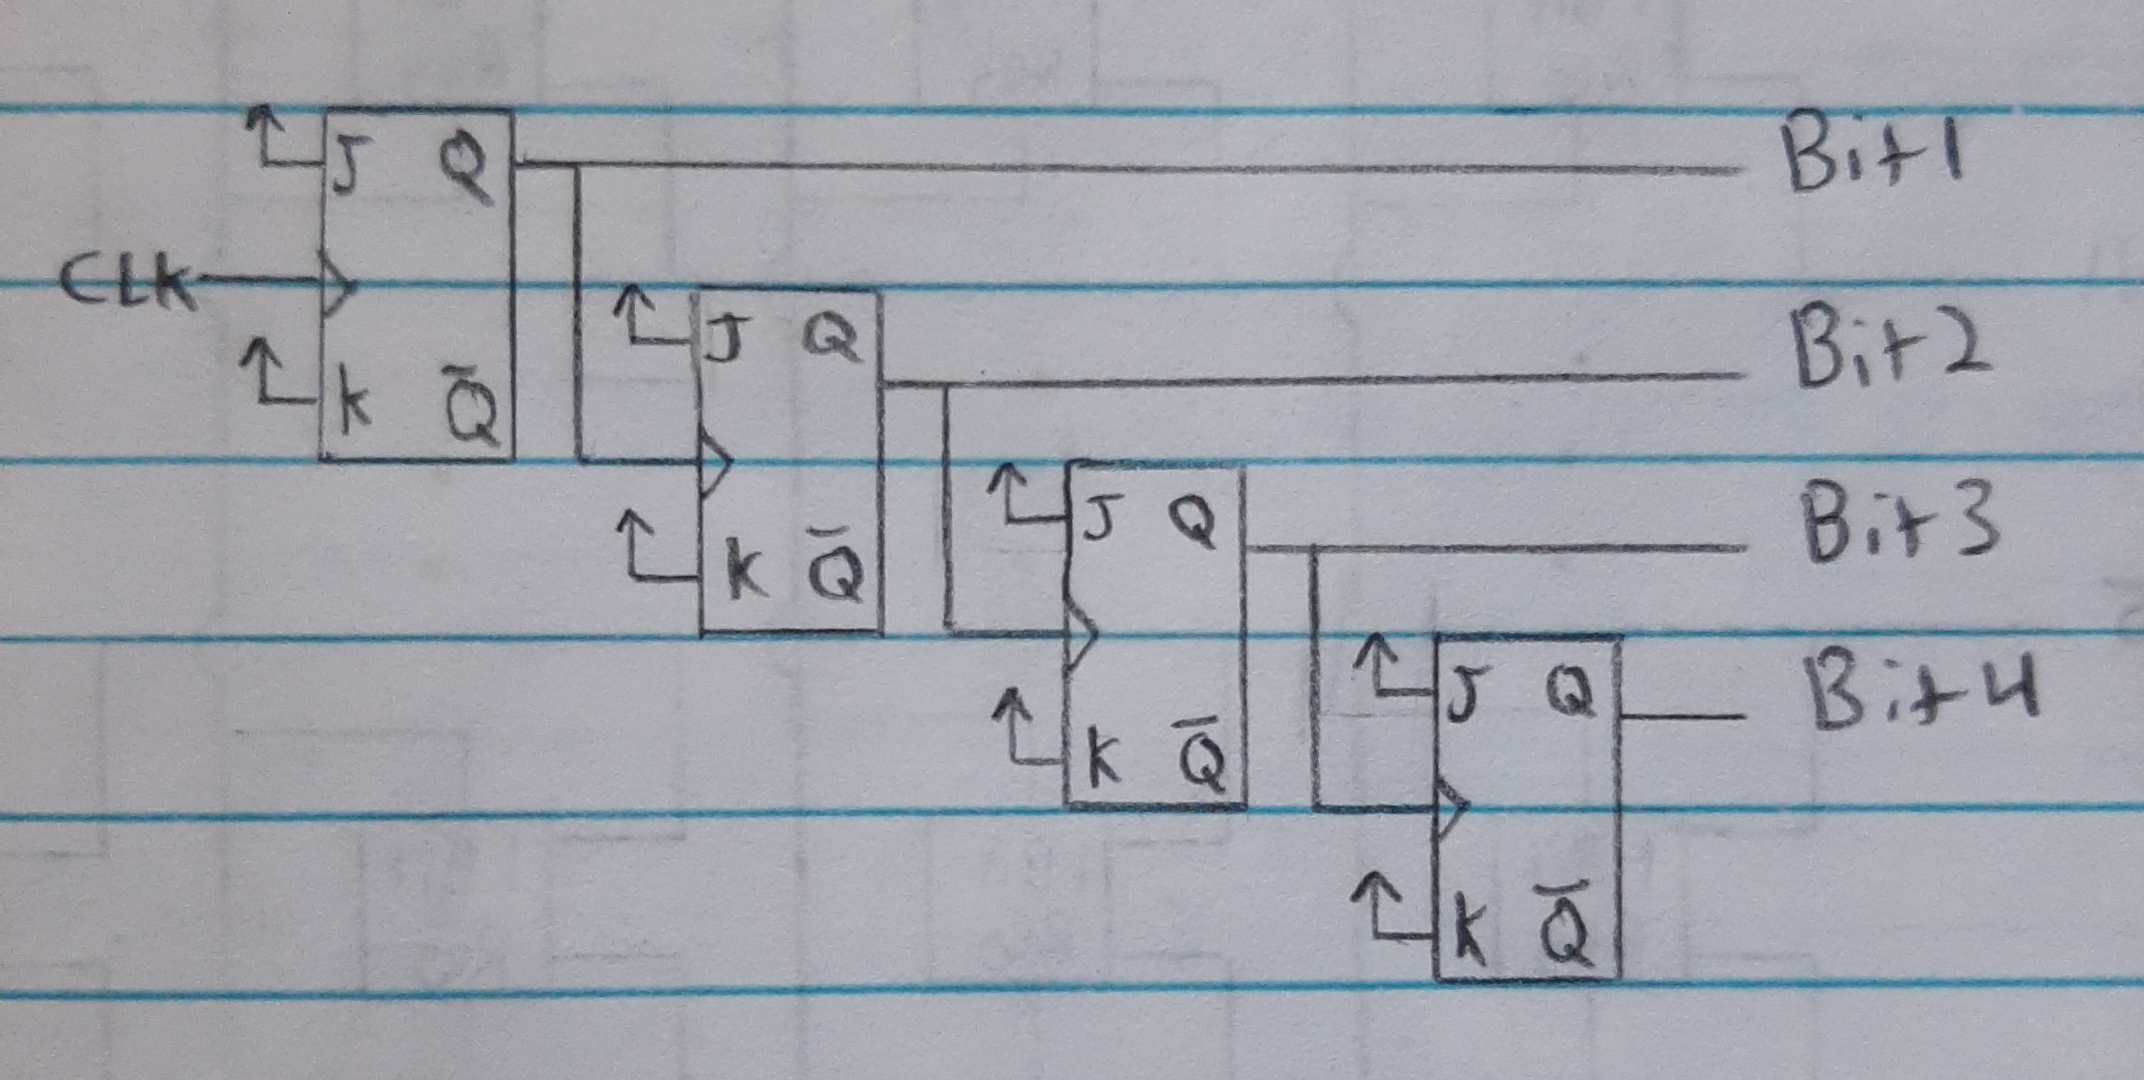
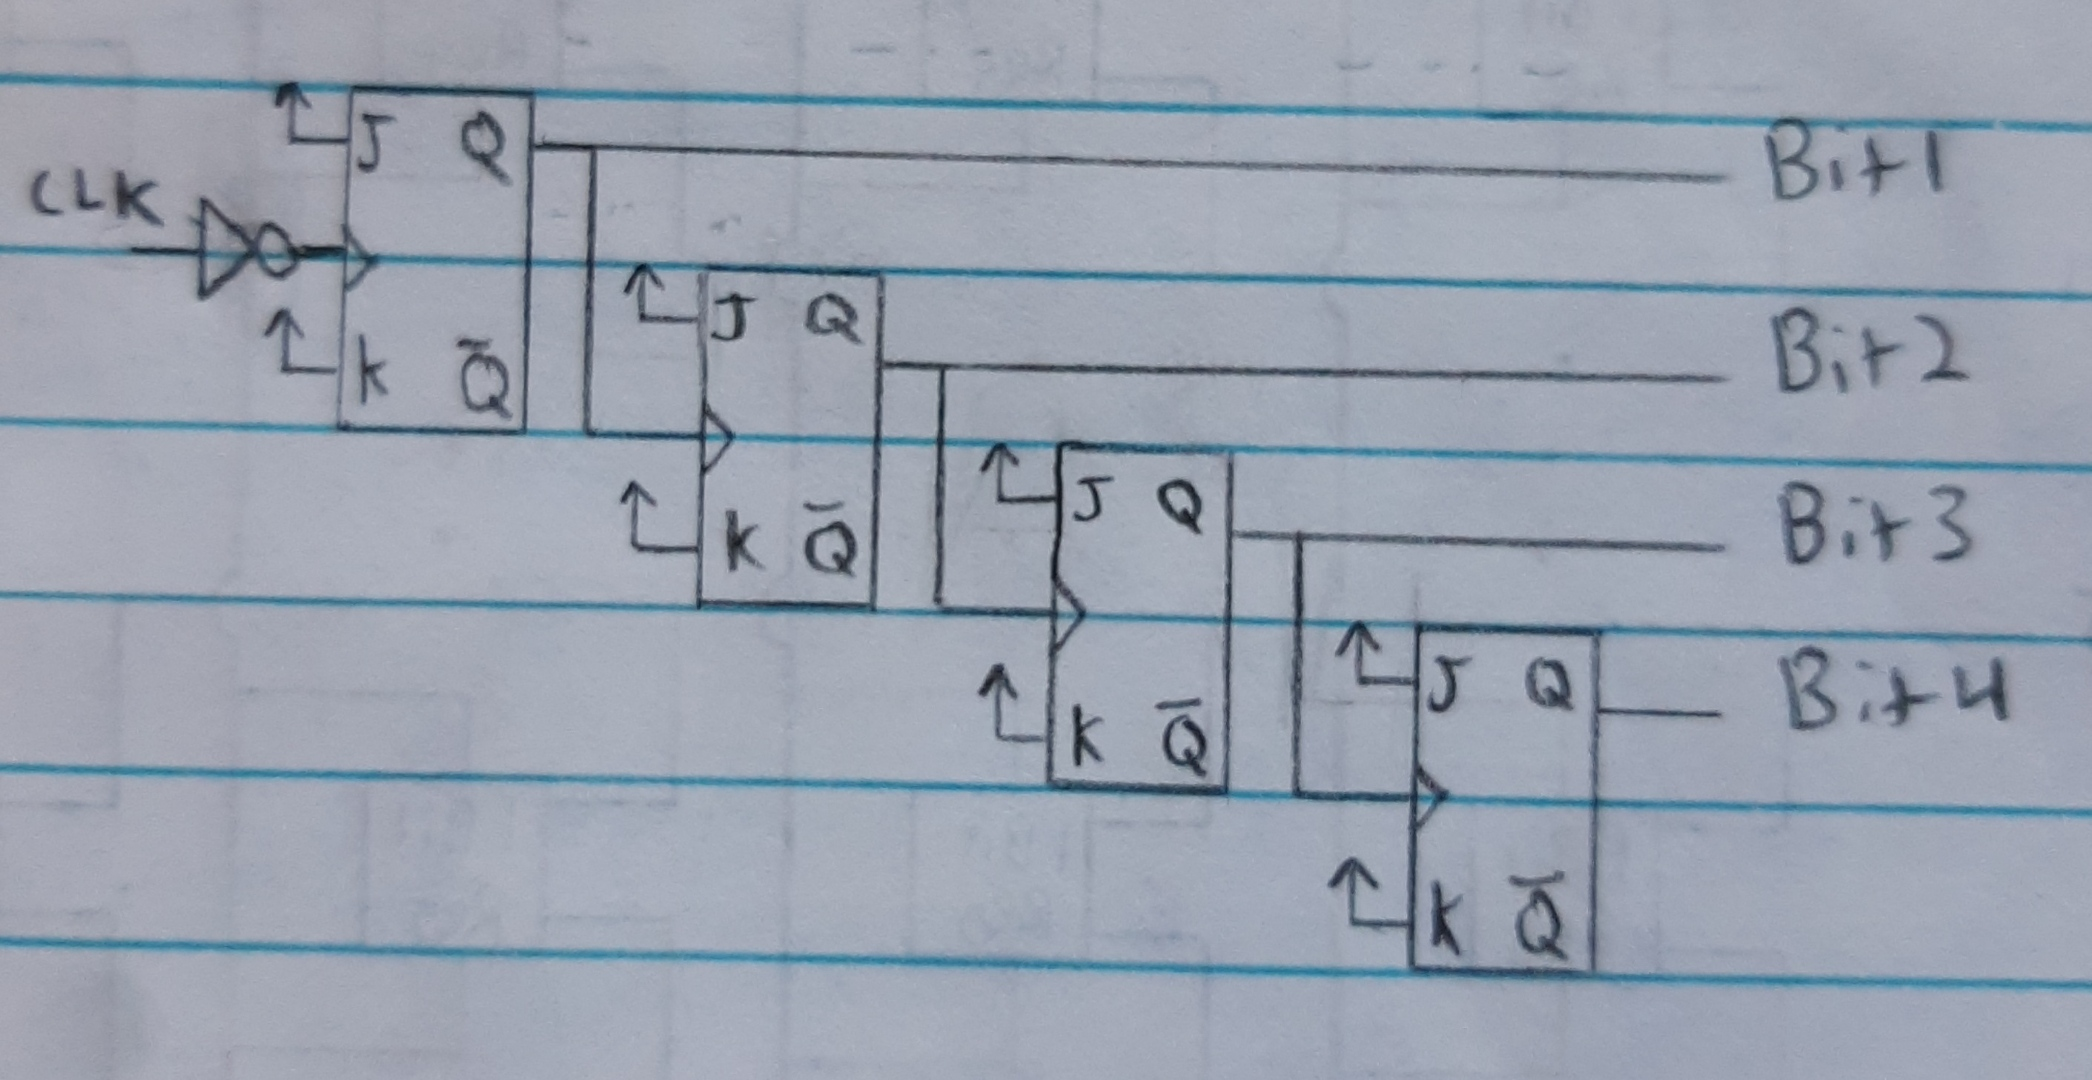
Finishes program counter in how a cpu works.

diff --git a/Tools/How_A_CPU_Works/how_a_cpu_works.md b/Tools/How_A_CPU_Works/how_a_cpu_works.md
@@ -52,6 +52,7 @@
 	- [JK Flip Flop](#jk-flip-flop)
 	- [Master Slave JK Flip Flop](#master-slave-jk-flip-flop)
 	- [Binary Counter](#binary-counter)
+	- [Program Counter Overview](#program-counter-overview)
 
 <!-- /TOC -->
 
@@ -266,6 +267,7 @@ Full adders are strung together to do addition on the full word of a computer.
 
 ## [RAM](#how-a-cpu-works)
 Random Access Memory (RAM) is a sequence of memory locations used to store data, usually the size of a word.
+- The code that is executed by the CPU is stored in the RAM.
 
 Ex: 4 bit address and 4 bit word memory. The tops and bottoms are connected to the bus with tri-state gates. Separate tri-state gates are used to determine if it should input or output to/from the bus.
 
@@ -312,7 +314,7 @@ The address mapper/binary decoder is used to map the address to the correspondin
 - **RO** - RAM Out
 
 ## [Program Counter](#how-a-cpu-works)
-The program counter counts by 1 every operation?
+The program counter is used to keep track of which address in RAM is being currently ran.
 
 ### [JK Flip Flop](#how-a-cpu-works)
 The JK Flip Flop is like the SR Latch, but when both the inputs are high it toggles the state instead of putting it in an unknown state.
@@ -346,7 +348,7 @@ The Master Slave JK Flip Flop is used to solve this race condition problem with 
 ### [Binary Counter](#how-a-cpu-works)
 The binary counter is used to count 1, in binary, whenever the CLK goes from low to high.
 
-<img src="binary_counter.jpeg" width="350">
+<img src="binary_counter.jpeg" width="450">
 
 | Bit4  | Bit3  | Bit2  | Bit1  |
 |-------|-------|-------|-------|
@@ -357,3 +359,17 @@ The binary counter is used to count 1, in binary, whenever the CLK goes from low
 | 0     | 0     | 1     | 1     |
 | 0     | 1     | 0     | 0     |
 | etc   | etc   | etc   | etc   |
+
+- The CLK signal is inverted so it counts when going from low to high instead of the usual high to low.
+
+### [Program Counter Overview](#how-a-cpu-works)
+
+|                                                       |                                                       |
+|-------------------------------------------------------|-------------------------------------------------------|
+| <img src="program_counter_diagram.jpeg" width="350"> | <img src="program_counter_overview.jpeg" width="250"> |
+
+| Input  | Description             |
+|--------|-------------------------|
+| **CO** | Program Counter Out     |
+| **J**  | Jump/Program Counter In |
+| **CE** | Count enable/Increment  |

diff --git a/C_C++/cpp_standard_libraries.md b/C_C++/cpp_standard_libraries.md
@@ -221,8 +221,6 @@ int main() {
 	- Can't change size
 	- Slow to insert/delete
 
-.
-
 ### [vector](#c-standard-libraries)
 `std::vector<type>` is an array that can grow in size. First a fixed size array is stored in the heap. If an insert would overflow the array, a new larger fixed size array is created else where in the heap, and all the contents of the smaller array are moved to the larger array.
 - Advantages

diff --git a/Tools/how_a_compiler_works.md b/Tools/how_a_compiler_works.md
@@ -80,10 +80,3 @@ The lexical analyzer reads the source code and groups characters together called
 
 ## [Semantic Analyzer](#how-a-compiler-works)
 ## [Code Generator](#how-a-compiler-works)
-
-Problems:
-- How to tokenize?
-	- Handle spaces? How do I enforce spaces?
-	- How to handle all the different types f tokenization in C++?
-- How to parse more complicated code?
-- How to organize the code?

diff --git a/C_C++/cpp.md b/C_C++/cpp.md
@@ -102,6 +102,8 @@ My personal notes on C++.
 - type fields? An instance of an enum?
 	- A variable that can only have the types specified in the enum.
 - Multi-threading
+- Modules?
+	- `import` how does this effect header files
 
 - `"a"` outputs a null terminated array of characters, while `'a'` is just that character.
 	- `"a"` is the same as `['a', '\0']`
